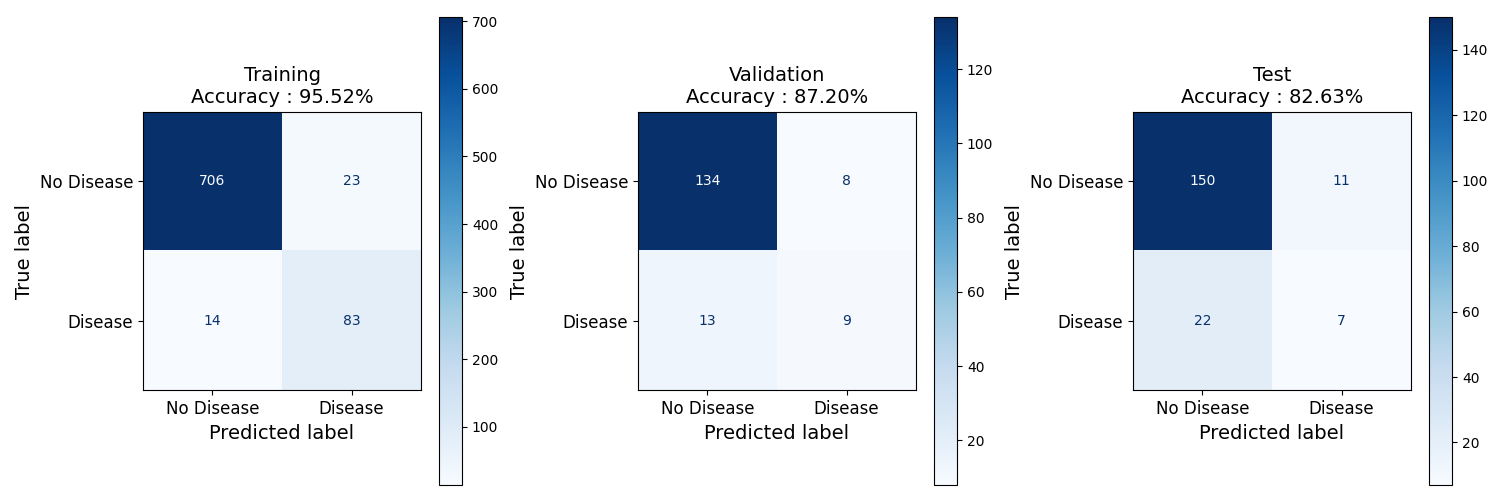
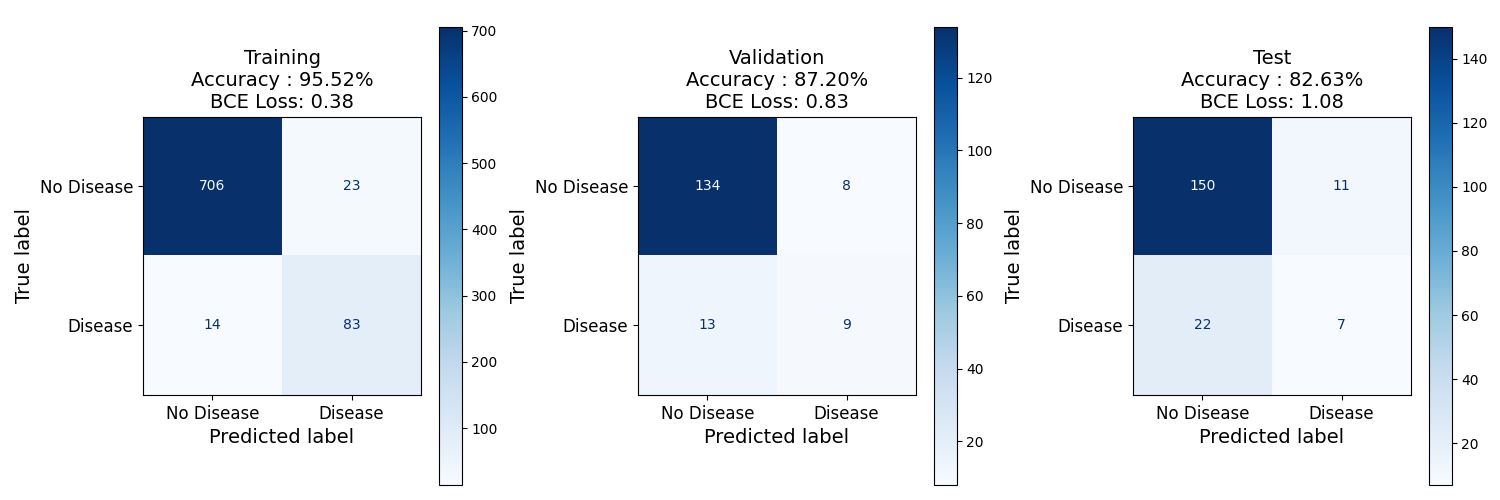
Added BCE loss to confusion matrices

diff --git a/ANN/ANN.py b/ANN/ANN.py
@@ -446,10 +446,11 @@ class FitModel():
 
         for i, (split, metric) in enumerate(all_metrics.items()):
             accuracy = metric['accuracy']
+            loss = metric['loss']
             cm = confusion_matrix(metric['y_true'], metric['y_pred'])
             disp = ConfusionMatrixDisplay(cm, display_labels=['No Disease', 'Disease'])
             disp.plot(cmap=plt.cm.Blues, ax=axs[i])
-            axs[i].set_title(f'{split}\nAccuracy : {(accuracy*100):.2f}%', fontsize=14)
+            axs[i].set_title(f'{split}\nAccuracy : {(accuracy*100):.2f}%\nBCE Loss: {loss:.2f}', fontsize=14)
             axs[i].set_xlabel(axs[i].get_xlabel(), fontsize=14)
             axs[i].set_ylabel(axs[i].get_ylabel(),fontsize=14)
             axs[i].tick_params(axis = 'x', labelsize=12)
